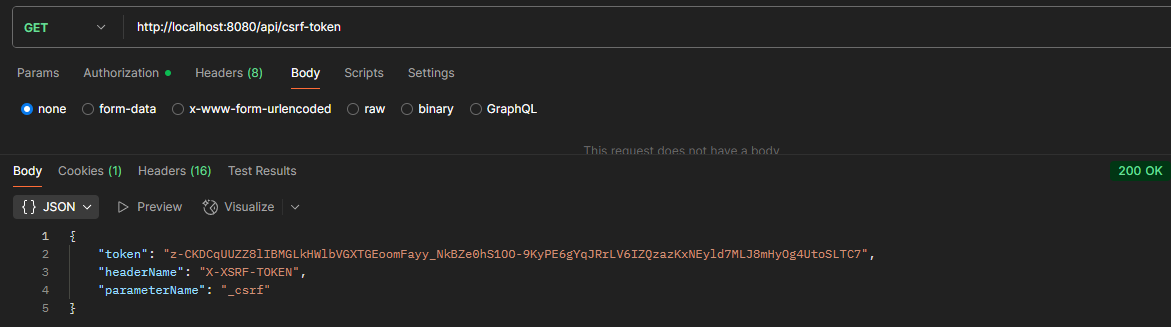
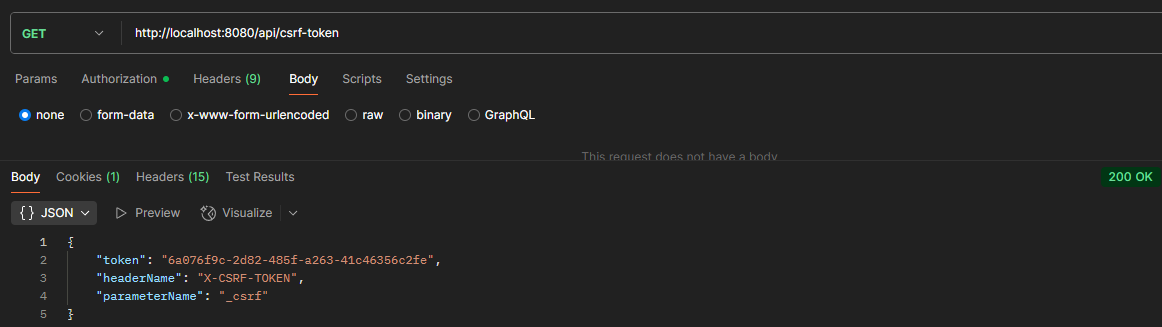
feat(user picture): user picture is public now, docs update for csrf

diff --git a/src/main/java/team8/comp47360_team8_backend/security/SpringSecurityConfiguration.java b/src/main/java/team8/comp47360_team8_backend/security/SpringSecurityConfiguration.java
@@ -63,8 +63,9 @@ public class SpringSecurityConfiguration {
                     requestUri = requestUri.substring(contextPath.length());
                     // protect get requests for endpoints starting with /user and /userplans
                     if (HttpMethod.GET.matches(request.getMethod())) {
-                        return requestUri.startsWith("/user") ||
-                                requestUri.startsWith("/userplans");
+                        // allow get requests for public user profile pictures
+                        return !requestUri.startsWith("/user/picture/") &&
+                                (requestUri.startsWith("/user") || requestUri.startsWith("/userplans"));
                     }
                     // allow post requests with /register and /login endpoints
                     if (HttpMethod.POST.matches(request.getMethod())) {
@@ -81,6 +82,7 @@ public class SpringSecurityConfiguration {
                         .requestMatchers("/poitypes/**").permitAll()
                         .requestMatchers("/pois/**").permitAll()
                         .requestMatchers("/zones/**").permitAll()
+                        .requestMatchers(HttpMethod.GET, "/user/picture/**").permitAll()
                         .requestMatchers(HttpMethod.POST, "/register").permitAll()
                         .requestMatchers(HttpMethod.POST, "/login").permitAll()
                         .requestMatchers(HttpMethod.POST, "/logout`").authenticated()

diff --git a/readme.md b/readme.md
@@ -29,13 +29,6 @@
 #### Zone busyness API:
 - predict one zone's busyness for continuous predictedHours after a specific time
 ![alt text](docs/get_zones.png)
-#### CSRF Token API:
-- for all post/put/delete requests and get requests to ```/user/**, /userplans/**```
-you need to include the csrf token in the header: ```X-XSRF-TOKEN:{token}```
-- first get the csrf token
-![alt text](docs/get_csrf_token.png)
-- then add the token to the header with ```X-XSRF-TOKEN:{token}``` for all following requests
-![alt text](docs/get_csrf_token2.png)
 #### Register API:
 - userName and password are necessary.
 - userPicture will be ignored, should be updated after registration.
@@ -44,41 +37,47 @@ you need to include the csrf token in the header: ```X-XSRF-TOKEN:{token}```
 #### Login API:
 - has to be form login
 ![alt text](docs/post_login.png)
-#### Update User Picture API:
+#### CSRF Token API:
 - has to login first
+- then get the csrf token
+![alt text](docs/get_csrf_token.png)
+- then add the token to the header with ```X-CSRF-TOKEN:{token}``` for following requests that need authentication.
+![alt text](docs/get_csrf_token2.png)
+![alt text](docs/get_csrf_token3.png)
+#### Update User Picture API:
+- has to login first & set the csrf token in header
 - file size limit is 5MB
 - file type should be image/jpeg, image/png, image/gif
 ![alt text](docs/post_user_picture.png)
 #### Get User Picture API:
-- has to login first
-- user profile picture is public. Once login, users can access others' pictures too. This is for future possible friend system.
+- don't need login, userPicture is public.
 ![alt text](docs/get_user_picture.png)
 #### Get User Details API:
-- has to login first
+- has to login first & set the csrf token in header
 - you can use ```<img src={user.userPicture}>```  directly in html to display the picture
 ![alt text](docs/get_user.png)
 #### Update User Details API:
-- has to login first
+- has to login first & set the csrf token in header
 - we don't offer email update service, it will link to third-party account automatically
 - userPicture will be ignored, should be updated by posting.
 ![alt text](docs/put_user.png)
 #### Logout API:
-- will redirect to login page, which can be set to frontend page when deploying
-![alt text](docs/get_logout.png)
+- has to login first & set the csrf token in header
+![alt text](docs/post_logout.png)
 #### Delete User API:
-- has to login first
+- has to login first & set the csrf token in header
 ![alt text](docs/delete_user.png)
 #### Add User Plan API:
-- has to login first
+- has to login first & set the csrf token in header
 ![alt text](docs/post_userplans.png)
 #### Get User Plan API:
-- has to login first
+- has to login first & set the csrf token in header
 ![alt text](docs/get_userplans.png)
 #### Update User Plan API:
-- has to login first
+- has to login first & set the csrf token in header
 ![alt text](docs/put_userplans.png)
 #### Delete User Plan API:
-- has to login first
+- has to login first & set the csrf token in header
 ![alt text](docs/delete_userplans.png)
 
 ---------------------
